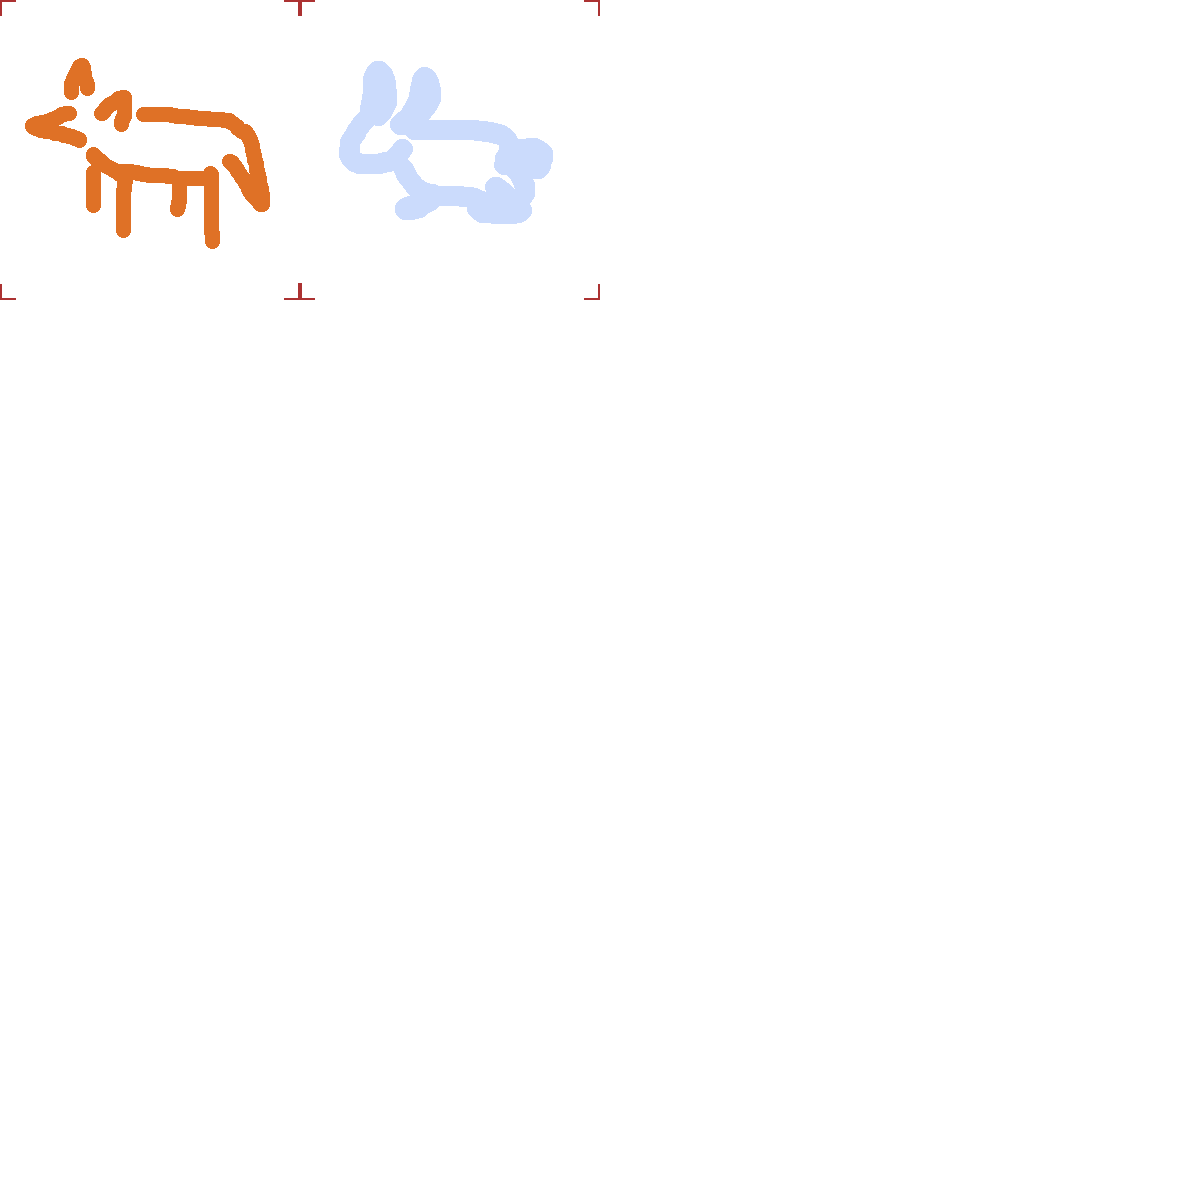
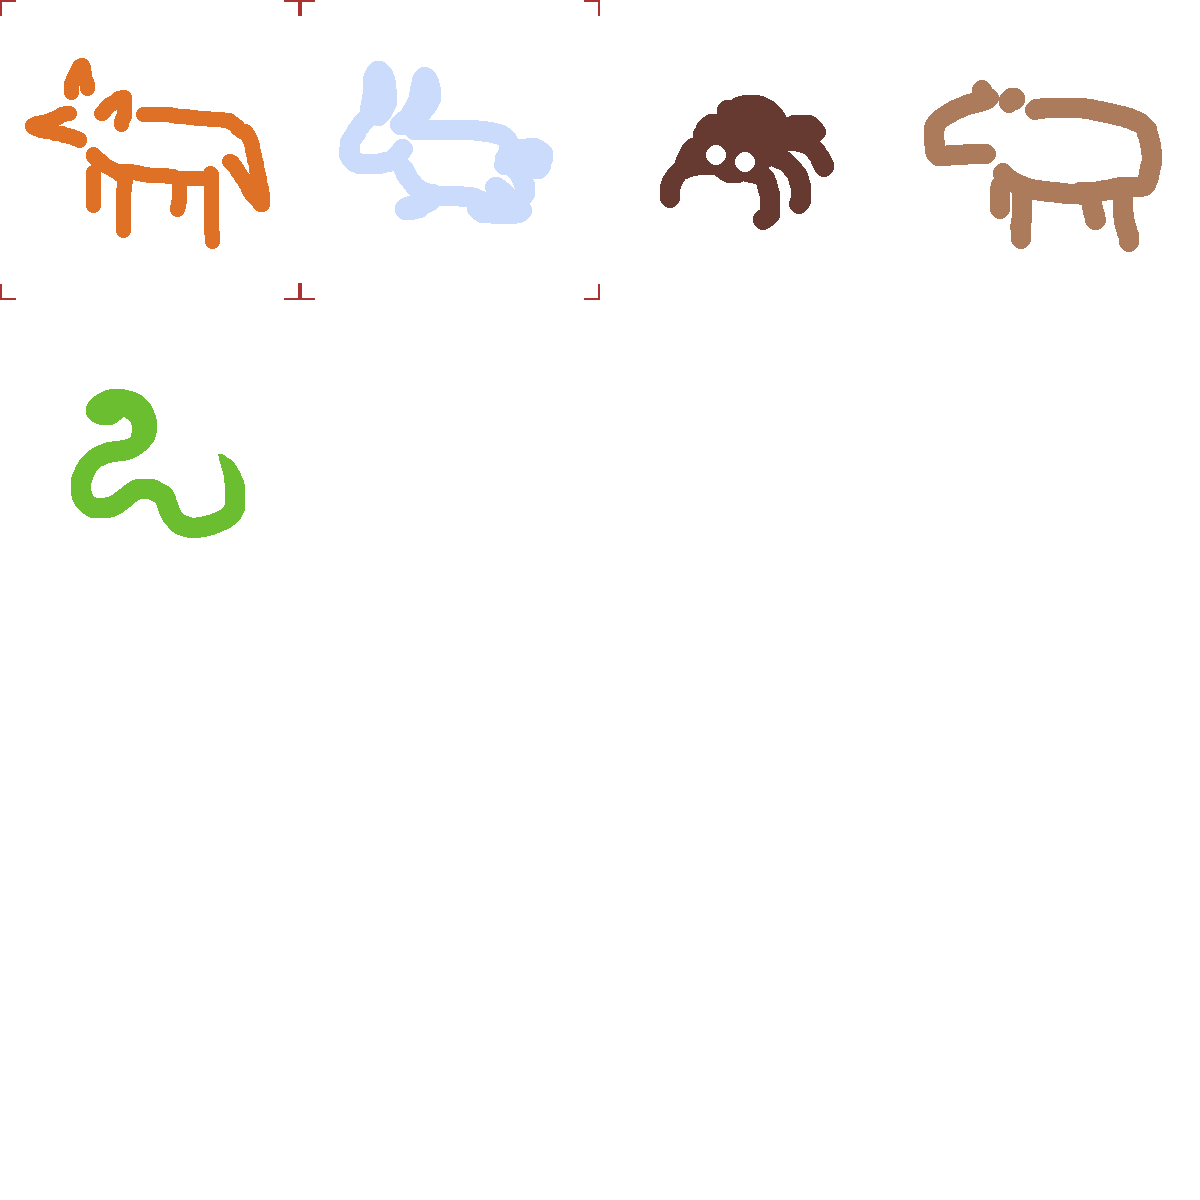
More animals

Changed region(s): [[0.7708, 0.0617, 0.9867, 0.2158], [0.555, 0.0617, 0.7092, 0.185], [0.0617, 0.3083, 0.2158, 0.4625]]

diff --git a/scripts/main.js b/scripts/main.js
@@ -17,21 +17,35 @@ const levels = {
     },
     completed : false
   },
-  2 : {
-    name : "3",
+  "test" : {
+    name : "Testing",
     gridSize : 10,
     creatures : {
       fox : 10,
-      rabbit : 10
+      rabbit : 10,
+      spider : 10,
+      capybara : 10,
+      snake : 10
     },
     completed : false
   },
   3 : {
-    name : "4",
-    gridSize : 10,
+    name : "3",
+    gridSize : 5,
     creatures : {
       fox : 6,
       rabbit : 3
+    },
+    completed : false
+  },
+  4 : {
+    name : "4",
+    gridSize : 4,
+    creatures : {
+      fox : 2,
+      rabbit : 6,
+      capybara : 1,
+      spider : 1
     },
     completed : false
   }
@@ -50,6 +64,24 @@ const creatures = {
     startingAgitation : 0,
     image: {file:"creatures.png",crop:[300,0,300,300]}
   },
+  spider : {
+    effectors : [[0,-1],[1,-1],[1,0],[1,1],[0,1],[-1,1],[-1,0],[-1,-1]],
+    type : "territorial",
+    startingAgitation : -2,
+    image: {file:"creatures.png",crop:[600,0,300,300]}
+  },
+  capybara : {
+    effectors : [[0,-1],[1,-1],[1,0],[1,1],[0,1],[-1,1],[-1,0],[-1,-1],[2,0],[0,2],[-2,0],[0,-2]],
+    type : "calming",
+    startingAgitation : -1000,
+    image: {file:"creatures.png",crop:[900,0,300,300]}
+  },
+  snake : {
+    effectors : [[1,-1],[1,1],[-1,1],[-1,-1],[2,0],[0,2],[-2,0],[0,-2]],
+    type : "aggressive",
+    startingAgitation : 0,
+    image: {file:"creatures.png",crop:[0,300,300,300]}
+  }
 }
 
 for (let creatureId in creatures) {
@@ -236,7 +268,6 @@ ChoreoGraph.graphicTypes.grid = new class Grid {
         currentCreature.agitation = creatures[currentCreature.creature].startingAgitation;
       }
       for (let currentCreature of g.creatures) {
-        let currentAgitation = currentCreature.agitation;
         for (let effector of creatures[currentCreature.creature].effectors) { // For each effector
           let x = currentCreature.x+effector[0];
           let y = currentCreature.y+effector[1];
@@ -244,22 +275,18 @@ ChoreoGraph.graphicTypes.grid = new class Grid {
             for (let otherCreature of g.creatures) { // For each other creature
               if (otherCreature.x == x && otherCreature.y == y) { // If other creature is in range
                 let effectorType = effectorTypes[creatures[currentCreature.creature].type];
-                let otherEffectorType = effectorTypes[creatures[otherCreature.creature].type];
-                let currentCreatureAgitationChange = otherEffectorType.self;
+                let currentCreatureAgitationChange = effectorType.self;
                 let otherCreatureAgitationChange = effectorType.inRange;
-                if (currentCreature.creature == otherCreature.creature) {
-                  if (effectorType.invertIfSame) {
-                    currentCreatureAgitationChange = -currentCreatureAgitationChange;
-                    otherCreatureAgitationChange = -otherCreatureAgitationChange;
-                  }
+                if (currentCreature.creature == otherCreature.creature&&effectorType.invertIfSame) {
+                  currentCreatureAgitationChange = -currentCreatureAgitationChange;
+                  otherCreatureAgitationChange = -otherCreatureAgitationChange;
                 }
-                currentAgitation += currentCreatureAgitationChange
+                currentCreature.agitation += currentCreatureAgitationChange
                 otherCreature.agitation += otherCreatureAgitationChange;
               }
             }
           }
         }
-        currentCreature.agitation = currentAgitation;
       }
       let complete = true;
       let validGame = false;
@@ -305,13 +332,6 @@ ChoreoGraph.graphicTypes.grid = new class Grid {
       if (!gridCreature.hasEntered) { continue; }
       let x = gridCreature.x;
       let y = gridCreature.y;
-
-      // AGITATION
-      cg.c.font = "20px Arial";
-      cg.c.fillStyle = "#000000";
-      cg.c.textAlign = "left";
-      cg.c.textBaseline = "top";
-      cg.c.fillText(gridCreature.agitation,x*tileSize-xo+g.textCornerPadding,y*tileSize-yo+g.textCornerPadding);
 
       // EFFECTOR AREA
       for (let effector of creatures[gridCreature.creature].effectors) {
@@ -360,6 +380,18 @@ ChoreoGraph.graphicTypes.grid = new class Grid {
       // CREATURE IMAGE
       let creature = creatures[gridCreature.creature];
       cg.drawImage(creature.image,x*tileSize-xoC,y*tileSize-yoC,tileSize*g.creatureScale,tileSize*g.creatureScale,0,false);
+    }
+    for (let gridCreature of g.creatures) {
+      if (!gridCreature.hasEntered||gridCreature.agitation<-50) { continue; }
+      let x = gridCreature.x;
+      let y = gridCreature.y;
+
+      // AGITATION
+      cg.c.font = "bold 20px Arial";
+      cg.c.fillStyle = "#000000";
+      cg.c.textAlign = "left";
+      cg.c.textBaseline = "top";
+      cg.c.fillText(gridCreature.agitation,x*tileSize-xo+g.textCornerPadding,y*tileSize-yo+g.textCornerPadding);
     }
     cg.c.font = "50px Arial";
     cg.c.textAlign = "center";
@@ -411,7 +443,6 @@ ChoreoGraph.graphicTypes.picker = new class Picker {
         let y = creatureNum;
         let x = picker.x;
         let buttonHeight = g.width/2;
-        let xo = 0;
         let yo = g.height/2-buttonHeight/2;
         let newButton = cg.createButton({x:x,y:y*buttonHeight-yo,width:g.width,height:buttonHeight,id:"picker"+creature,creature:creature,cursor:"pointer",check:"gameScreen",CGSpace:true,
           down:function(){
@@ -444,7 +475,7 @@ ChoreoGraph.graphicTypes.picker = new class Picker {
       cg.c.font = "20px Arial";
       cg.c.textAlign = "left";
       cg.c.textBaseline = "top";
-      cg.c.fillText(g.creatures[creatureId],x*tileSize-xo,y*tileSize-yo);
+      cg.c.fillText("x"+g.creatures[creatureId],x*tileSize-xo+100,y*tileSize-yo);
     }
   }
 }
@@ -452,7 +483,7 @@ const picker = cg.createGraphic({type:"picker",id:"picker",CGSpace:true,x:600});
 
 ChoreoGraph.graphicTypes.levelSelector = new class LevelSelector {
   setup(g,graphicInit,cg) {
-    g.levels = [0,1,2,3];
+    g.levels = [0,1,3,4,"test"];
 
     g.widthPerLevel = 250;
     g.hightPerLevel = 200;

diff --git a/scripts/setup.js b/scripts/setup.js
@@ -1,7 +1,7 @@
 var cg = ChoreoGraph.instantiate(document.getElementsByTagName("canvas")[0],{
   parentElementId : "full",
   levels : 5,
-  // background : "#fafafa",
+  background : "#d4cd9b",
   useCamera : true,
   preventDefault : ["space","up","down","left","right","tab"],
 });
